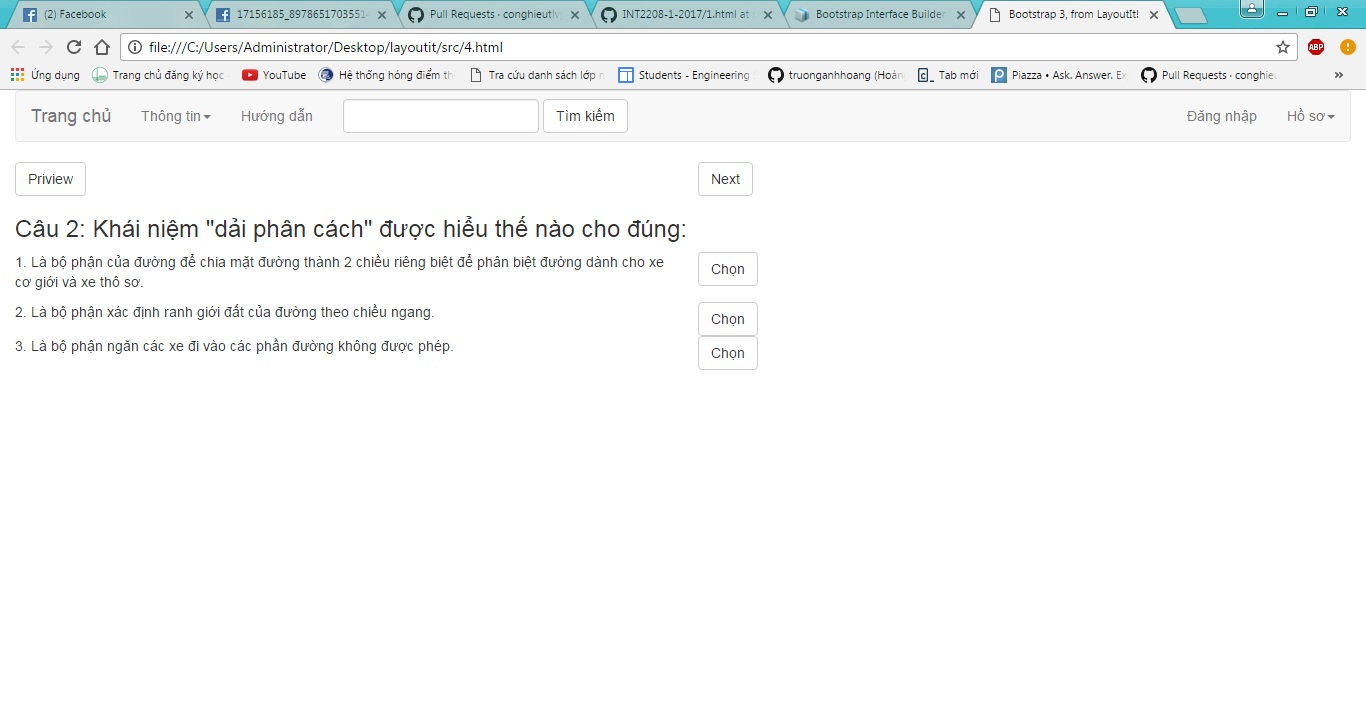
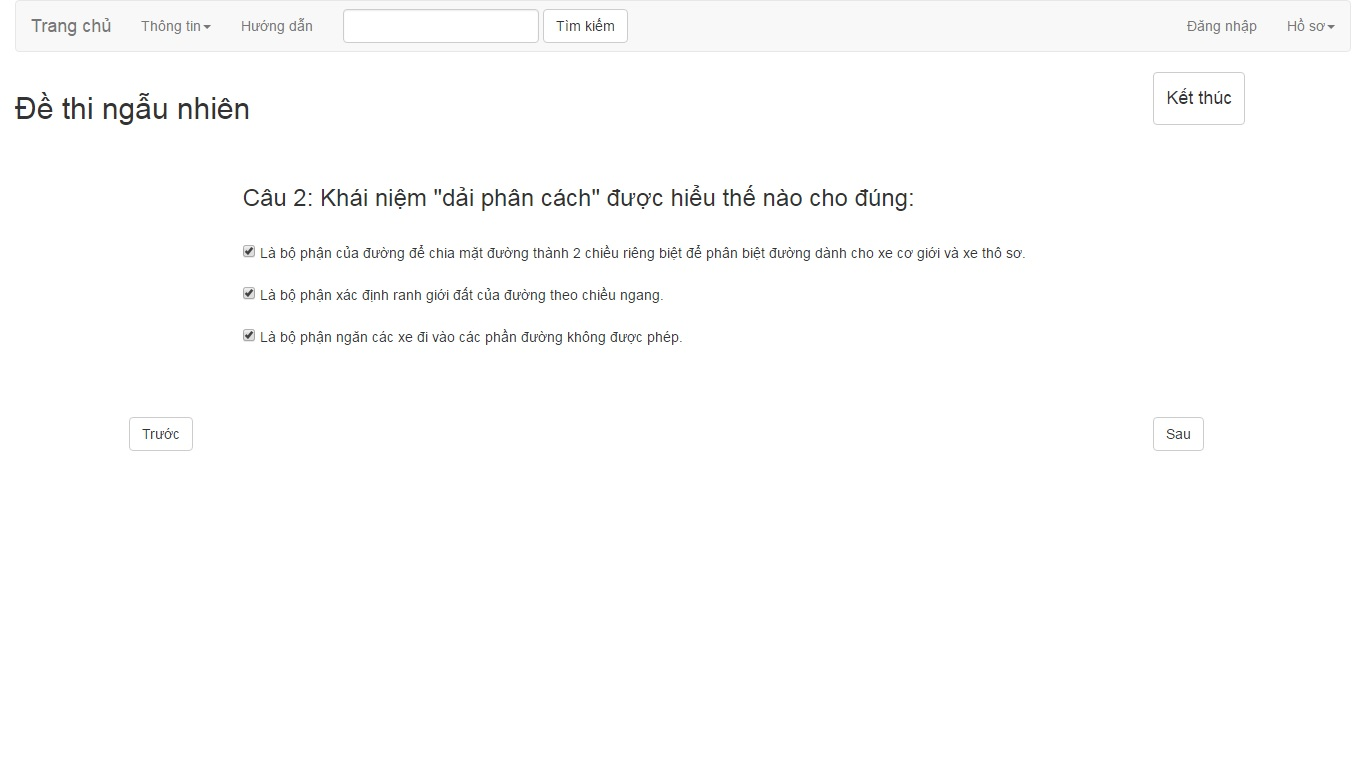
Dự án nhóm HAI

diff --git a/Nhom-HAI/4.html b/Nhom-HAI/4.html
@@ -11,7 +11,7 @@
     <meta name="description" content="Source code generated using layoutit.com">
     <meta name="author" content="LayoutIt!">
 
-    <link href="css/bootstrap.min.css" rel="stylesheet">
+    <link href="http://www.layoutit.com/css/bootstrap.min.css" rel="stylesheet">
     <link href="css/style.css" rel="stylesheet">
 
   </head>
@@ -92,70 +92,92 @@
 			</nav>
 		</div>
 	</div>
+	
 	<div class="row">
-		<div class="col-md-6">
-			 
-			<button type="button" class="btn btn-default">
-				Priview
-			</button>
+		<div class="col-md-10">
+			 <h2>
+				Đề thi ngẫu nhiên
+				</h2>
 		</div>
-		<div class="col-md-6">
+		<div class="col-md-2">
 			 
 			<button type="button" class="btn btn-default">
-				Next
+				<h4>
+					Kết thúc
+				</h4>
 			</button>
 		</div>
 	</div>
 	<div class="row">
-		<div class="col-md-12">
+			<div class="col-md-12">
+			<p>
+			
+			<br>
+			</p>
+			</div>
+		</div>
+	<div class="row">
+		<div class="col-md-2">
+		</div>
+		<div class="col-md-8">
 			<h3>
 				Câu 2: Khái niệm "dải phân cách" được hiểu thế nào cho đúng:
 			</h3>
+			<br>
 			<div class="row">
-				<div class="col-md-6">
-					<p>
-						1. Là bộ phận của đường để chia mặt đường thành 2 chiều riêng biệt để phân biệt đường dành cho xe cơ giới và xe thô sơ.
-					</p>
-				</div>
-				<div class="col-md-6">
-					 
-					<button type="button" class="btn btn-default">
-						Chọn
-					</button>
+				<div class="col-md-12">
+					<form>
+						<input type="checkbox" name="" value="" /> Là bộ phận của đường để chia mặt đường thành 2 chiều riêng biệt để phân biệt đường dành cho xe cơ giới và xe thô sơ.<br><br>
+					</form>
 				</div>
 			</div>
 			<div class="row">
-				<div class="col-md-6">
-					<p>
-						2. Là bộ phận xác định ranh giới đất của đường theo chiều ngang.
-					</p>
-				</div>
-				<div class="col-md-6">
-					 
-					<button type="button" class="btn btn-default">
-						Chọn
-					</button>
+				<div class="col-md-12">
+					<form>
+						<input type="checkbox" name="" value="" /> Là bộ phận xác định ranh giới đất của đường theo chiều ngang.<br><br>
+					</form>
 				</div>
 			</div>
 			<div class="row">
-				<div class="col-md-6">
-					<p>
-						3. Là bộ phận ngăn các xe đi vào các phần đường không được phép.
-					</p>
+				<div class="col-md-12">
+					<form>
+						<input type="checkbox" name="" value="" /> Là bộ phận ngăn các xe đi vào các phần đường không được phép.<br><br>
+					</form>
 				</div>
-				<div class="col-md-6">
-					 
-					<button type="button" class="btn btn-default">
-						Chọn
-					</button>
-				</div>
+			</div>
+			
+		</div>
+		<div class="col-md-2">
+		</div>
+	</div>
+		<div class="row">
+			<div class="col-md-12">
+			<p>
+			<br>
+			<br>
+			</p>
 			</div>
 		</div>
+		
+	<div class="row">
+		<div class="col-md-1">
+		</div>
+		<div class="col-md-9"> 
+			<button type="button" class="btn btn-default">
+				Trước
+			</button>
+		</div>
+		<div class="col-md-2">
+			<button type="button" class="btn btn-default">
+				Sau
+			</button>
+		</div>
+	</div>
 	</div>
 </div>
 
-    <script src="js/jquery.min.js"></script>
-    <script src="js/bootstrap.min.js"></script>
-    <script src="js/scripts.js"></script>
+    <script src="http://www.layoutit.com/js/jquery.min.js"></script>
+    <script src="http://www.layoutit.com/js/bootstrap.min.js"></script>
+    <script src="http://www.layoutit.com/js/scripts.js"></script>
   </body>
 </html>
